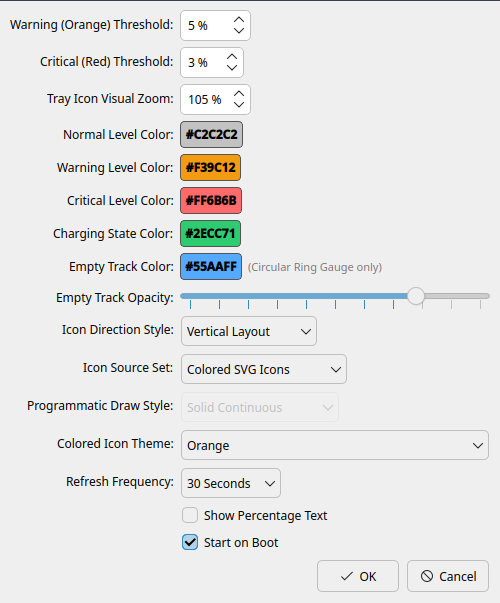
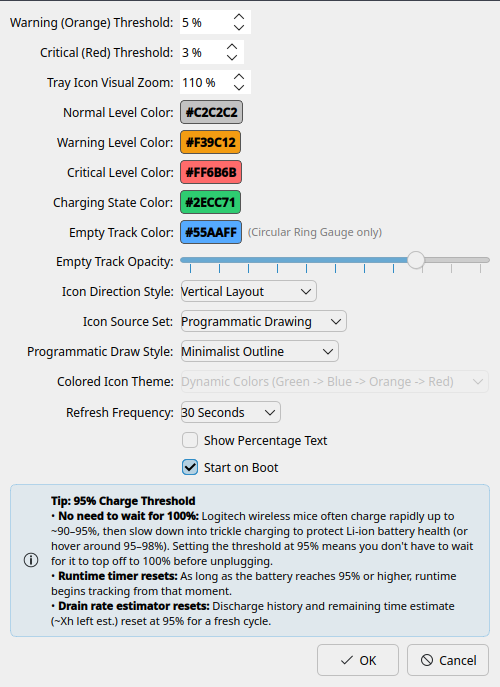
Add 95% charge threshold tip callout card to Preferences dialog

diff --git a/logitech_battery.py b/logitech_battery.py
@@ -38,9 +38,11 @@ except ImportError:
 if QtVariant == "PyQt5":
     QtAlignHCenter = QtCore.Qt.AlignHCenter
     QtAlignVCenter = QtCore.Qt.AlignVCenter
+    QtAlignTop = QtCore.Qt.AlignTop
 else:
     QtAlignHCenter = QtCore.Qt.AlignmentFlag.AlignHCenter
     QtAlignVCenter = QtCore.Qt.AlignmentFlag.AlignVCenter
+    QtAlignTop = QtCore.Qt.AlignmentFlag.AlignTop
 
 CE_MenuItem = getattr(QtWidgets.QStyle.ControlElement, 'CE_MenuItem', getattr(QtWidgets.QStyle, 'CE_MenuItem', 14))
 CT_MenuItem = getattr(QtWidgets.QStyle.ContentsType, 'CT_MenuItem', getattr(QtWidgets.QStyle, 'CT_MenuItem', 3))
@@ -255,6 +257,40 @@ class SettingsDialog(QtWidgets.QDialog):
         form.addRow("", self.autostart_check)
         
         layout.addLayout(form)
+        
+        # 95% Charge Threshold Tip Box
+        tip_frame = QtWidgets.QFrame()
+        tip_frame.setObjectName("tipFrame")
+        tip_frame.setStyleSheet("""
+            QFrame#tipFrame {
+                background-color: rgba(52, 152, 219, 0.08);
+                border: 1px solid rgba(52, 152, 219, 0.30);
+                border-radius: 6px;
+            }
+        """)
+        tip_layout = QtWidgets.QHBoxLayout(tip_frame)
+        tip_layout.setContentsMargins(10, 8, 10, 8)
+        tip_layout.setSpacing(10)
+
+        tip_icon = QtWidgets.QLabel()
+        tip_icon.setPixmap(QtGui.QIcon.fromTheme("help-about", QtGui.QIcon.fromTheme("dialog-information")).pixmap(20, 20))
+        tip_icon.setAlignment(QtAlignTop)
+        tip_icon.setFixedSize(20, 20)
+        tip_layout.addWidget(tip_icon)
+
+        tip_text = QtWidgets.QLabel(
+            "<b>Tip: 95% Charge Threshold</b><br>"
+            "• <b>No need to wait for 100%:</b> Logitech wireless mice often charge rapidly up to ~90–95%, "
+            "then slow down into trickle charging to protect Li-ion battery health (or hover around 95–98%). "
+            "Setting the threshold at 95% means you don't have to wait for it to top off to 100% before unplugging.<br>"
+            "• <b>Runtime timer resets:</b> As long as the battery reaches 95% or higher, runtime begins tracking from that moment.<br>"
+            "• <b>Drain rate estimator resets:</b> Discharge history and remaining time estimate (~Xh left est.) reset at 95% for a fresh cycle."
+        )
+        tip_text.setWordWrap(True)
+        tip_text.setStyleSheet("font-size: 8.5pt;")
+        tip_layout.addWidget(tip_text, 1)
+
+        layout.addWidget(tip_frame)
         
         if QtVariant == "PyQt5":
             OkButton = QtWidgets.QDialogButtonBox.Ok
